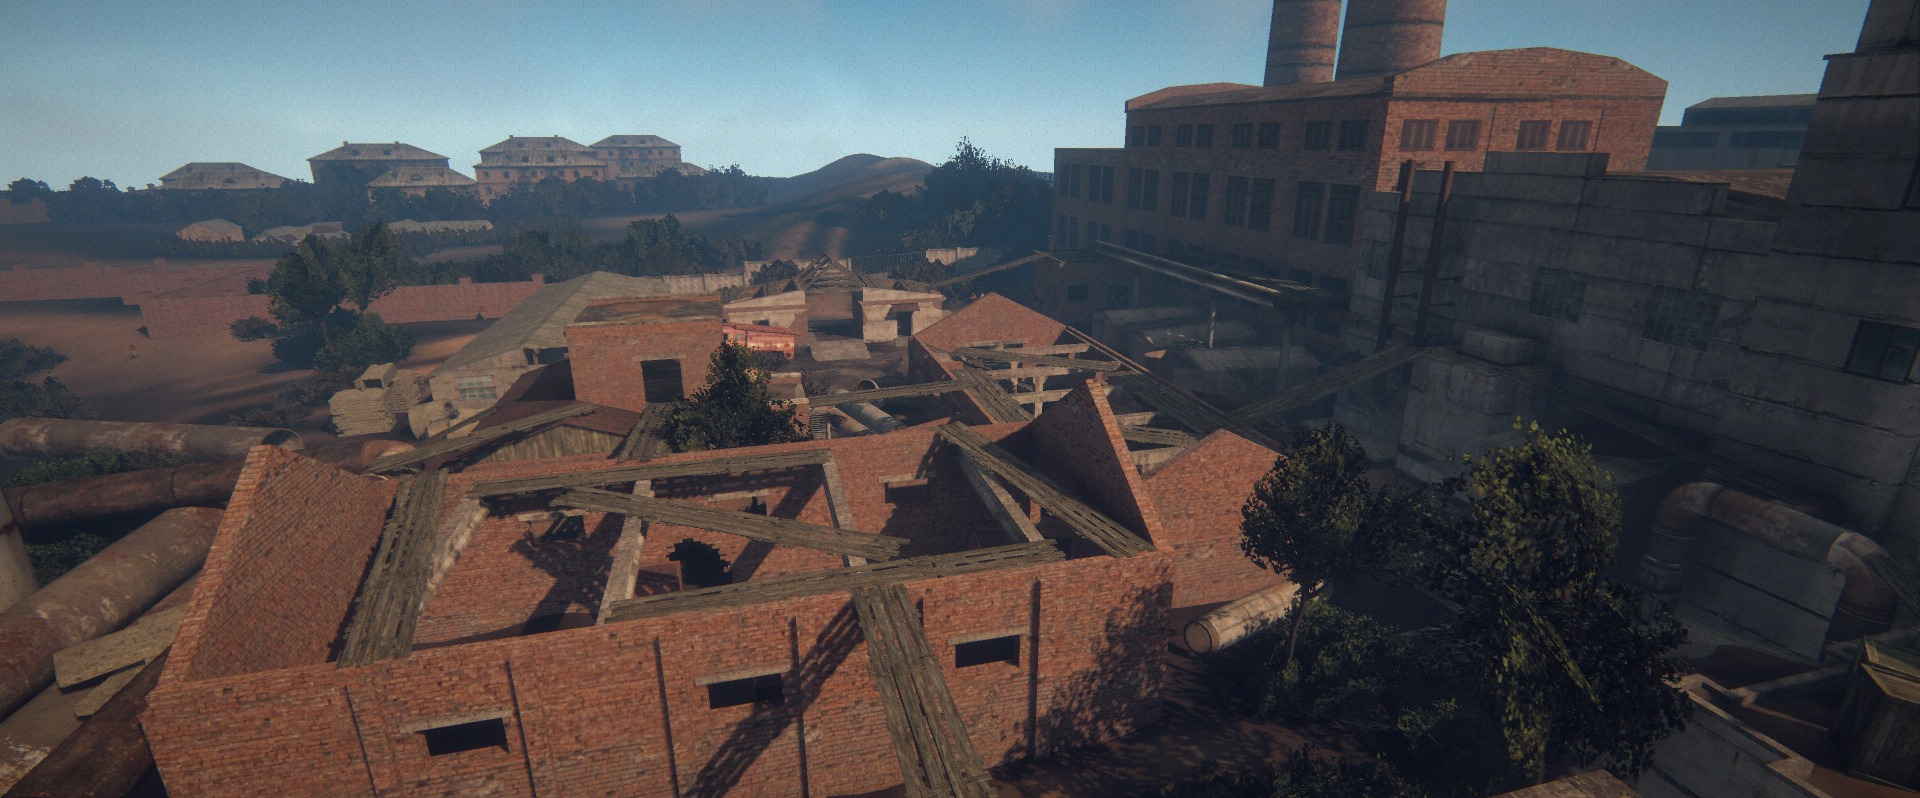
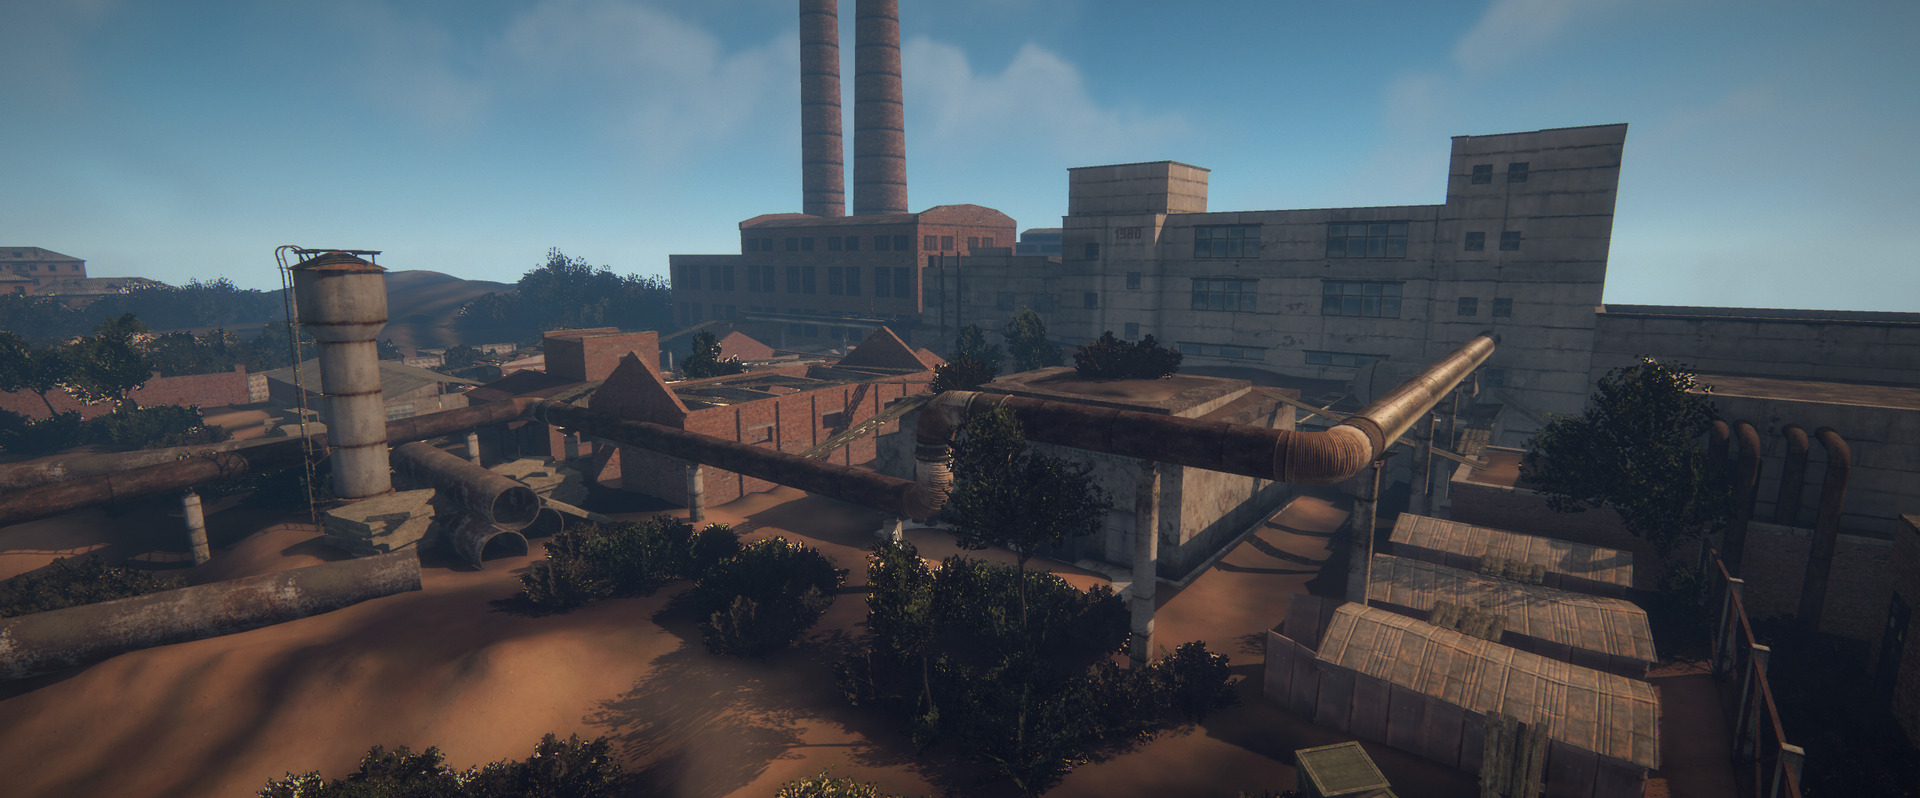
Repair Depot: loading picture captured in the game
The loading picture and room tile of Repair Depot are a frame of the game,
as the other three STALKER maps' since #1802: a headless game at 2560 x 1440
on a quick build of this branch, every setting at its highest, pose
field-se (the yard from the arena's south-east corner), cut to the lobby's
1920 x 798 band by ui_images.py.

diff --git a/srp-026g/docs/notes/stalker-ffa.md b/srp-026g/docs/notes/stalker-ffa.md
@@ -442,6 +442,20 @@ The HUD minimap is framed on the outline + 15 m (`render_minimap.py
 as Training Camp's; before, the south edge was the renderer's two 45 m circles.
 The site's Maps tab has its top-down render of `day_8` in that frame
 (`damage-calc/assets/maps`).
+Its loading picture and room tile are a frame of the game (`stalker-maps.md`,
+pose `field-se`: the yard from the arena's south-east corner), as the other
+three's.
+
+Checked offline only, on a quick `build-content 60` of the branch: the lists
+above, read back from the build (the 48 points as `cover-maps.tsv` leaves them,
+20 m, 1 m, 0 s and 500 ms each; the 24 Team Deathmatch points as `day_4` has
+them; no crates; the wall's object; everything else of `day_8` as `day_4`);
+the walk grid's containment; `to_cover` again (all kept);
+`the_released_free_for_alls_play_on_their_own_projects` on its server data
+(34 maps, map 41 level 18 with 48 solo points). The loading picture is a frame
+of a headless game on that build, the only time the map ran in the game: not
+played. Left for the game: how the invisible line across the field feels, and
+the spawns' cover and sight lines.
 
 ## Millisecond protection
 

diff --git a/srp-026g/docs/notes/stalker-maps.md b/srp-026g/docs/notes/stalker-maps.md
@@ -505,11 +505,13 @@ The spawns do not come from the level: they are the planner's.
   | Experimental Pool | `poolside-se` | (4, 6.5, 4) | -60 | -4 |
   | Military Warehouses | `road-tower` | (-8, -5.5, -8) | 3 | -2 |
   | Training Camp | `base-se2` | (62, 19, -50) | -47 | -7 |
+  | Repair Depot | `field-se` | (52, 16, -46) | -38 | -10 |
 
   The frame is scaled to cover 1920 x 798 and its middle band kept, as
   `ui_images.py` cuts it; the existing classes serve both loading screens and
-  room tiles. Repair Depot still uses the earlier package's in-game shot; the
-  two underground maps still use top-down placeholders.
+  room tiles. Repair Depot's was captured the same way when it went into Free
+  for All (2026-11-14, its arena's south-east corner, on a quick build of its
+  branch); the two underground maps still use top-down placeholders.
 - `release/content.tsv`: the pack row `stalker-maps@4`. @3 has the grass
   with flat-lying normals (black tufts under a high sun); @2 also has the
   planner's spots on Experimental Pool; @1 has no grass.
